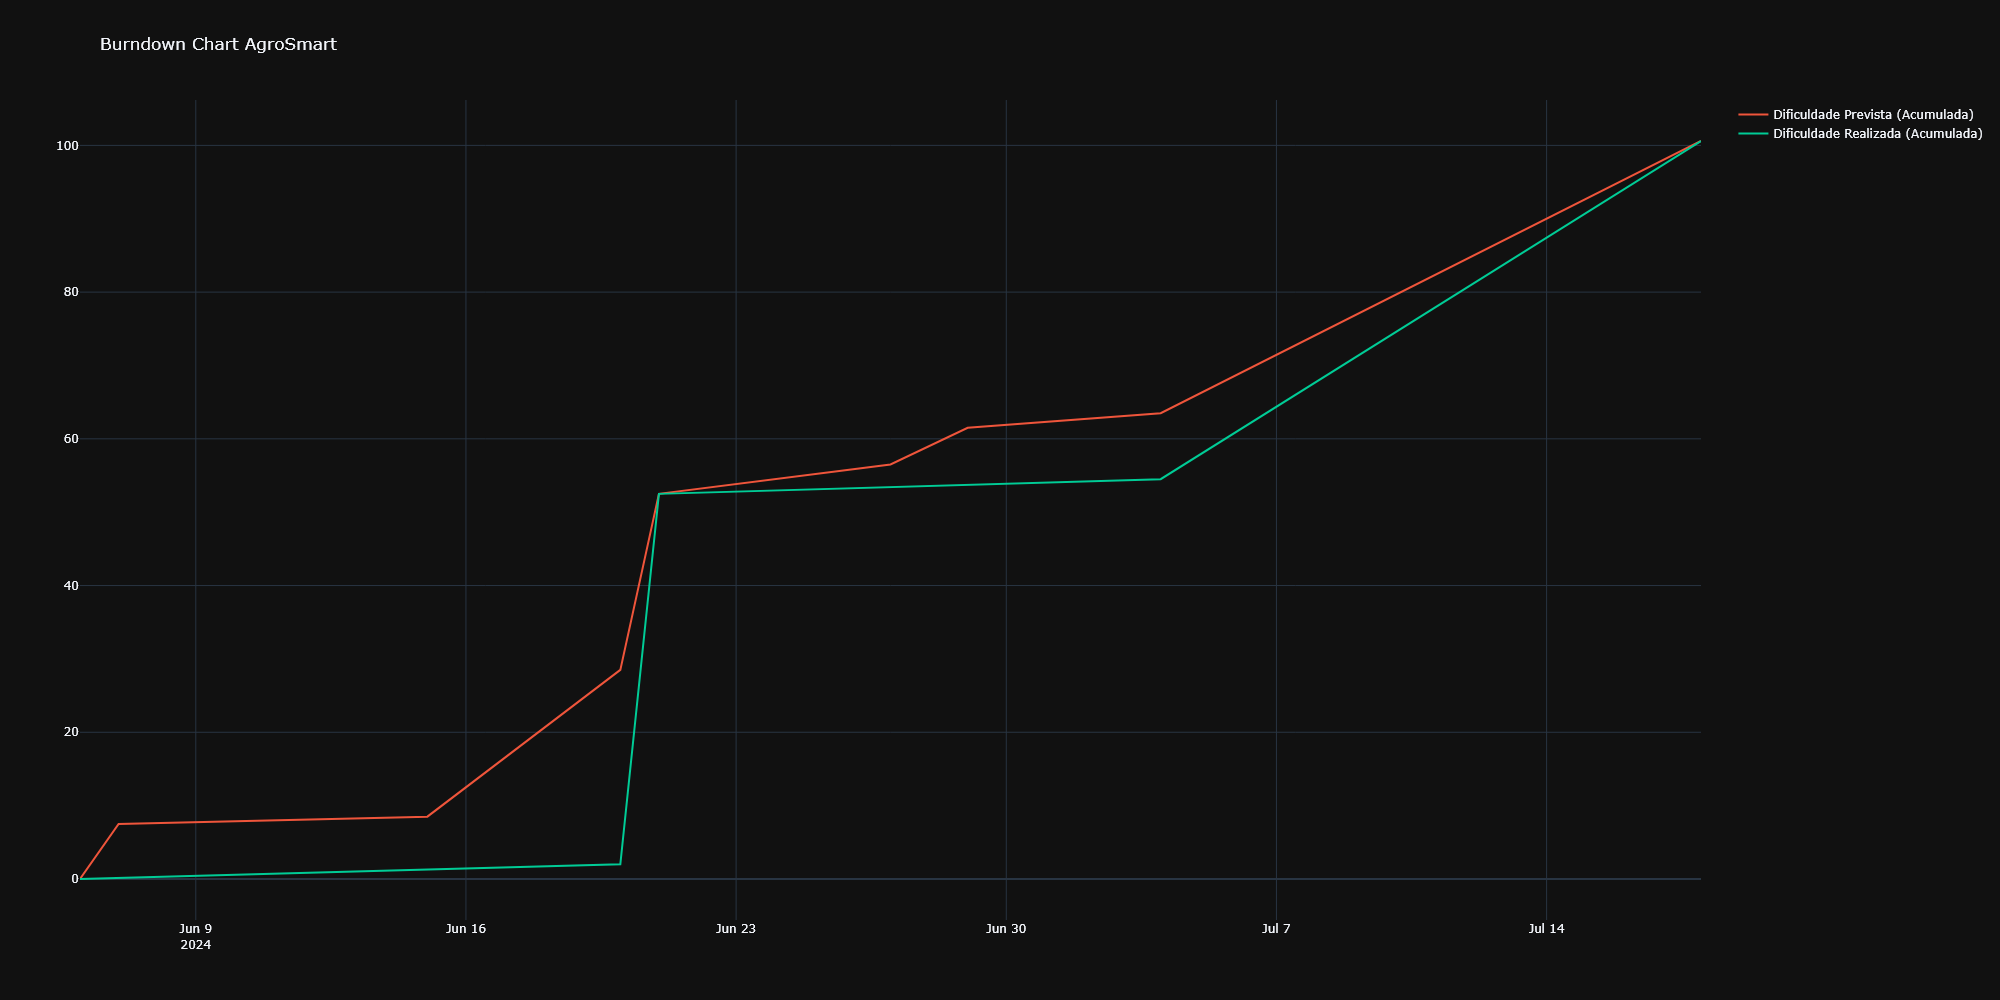
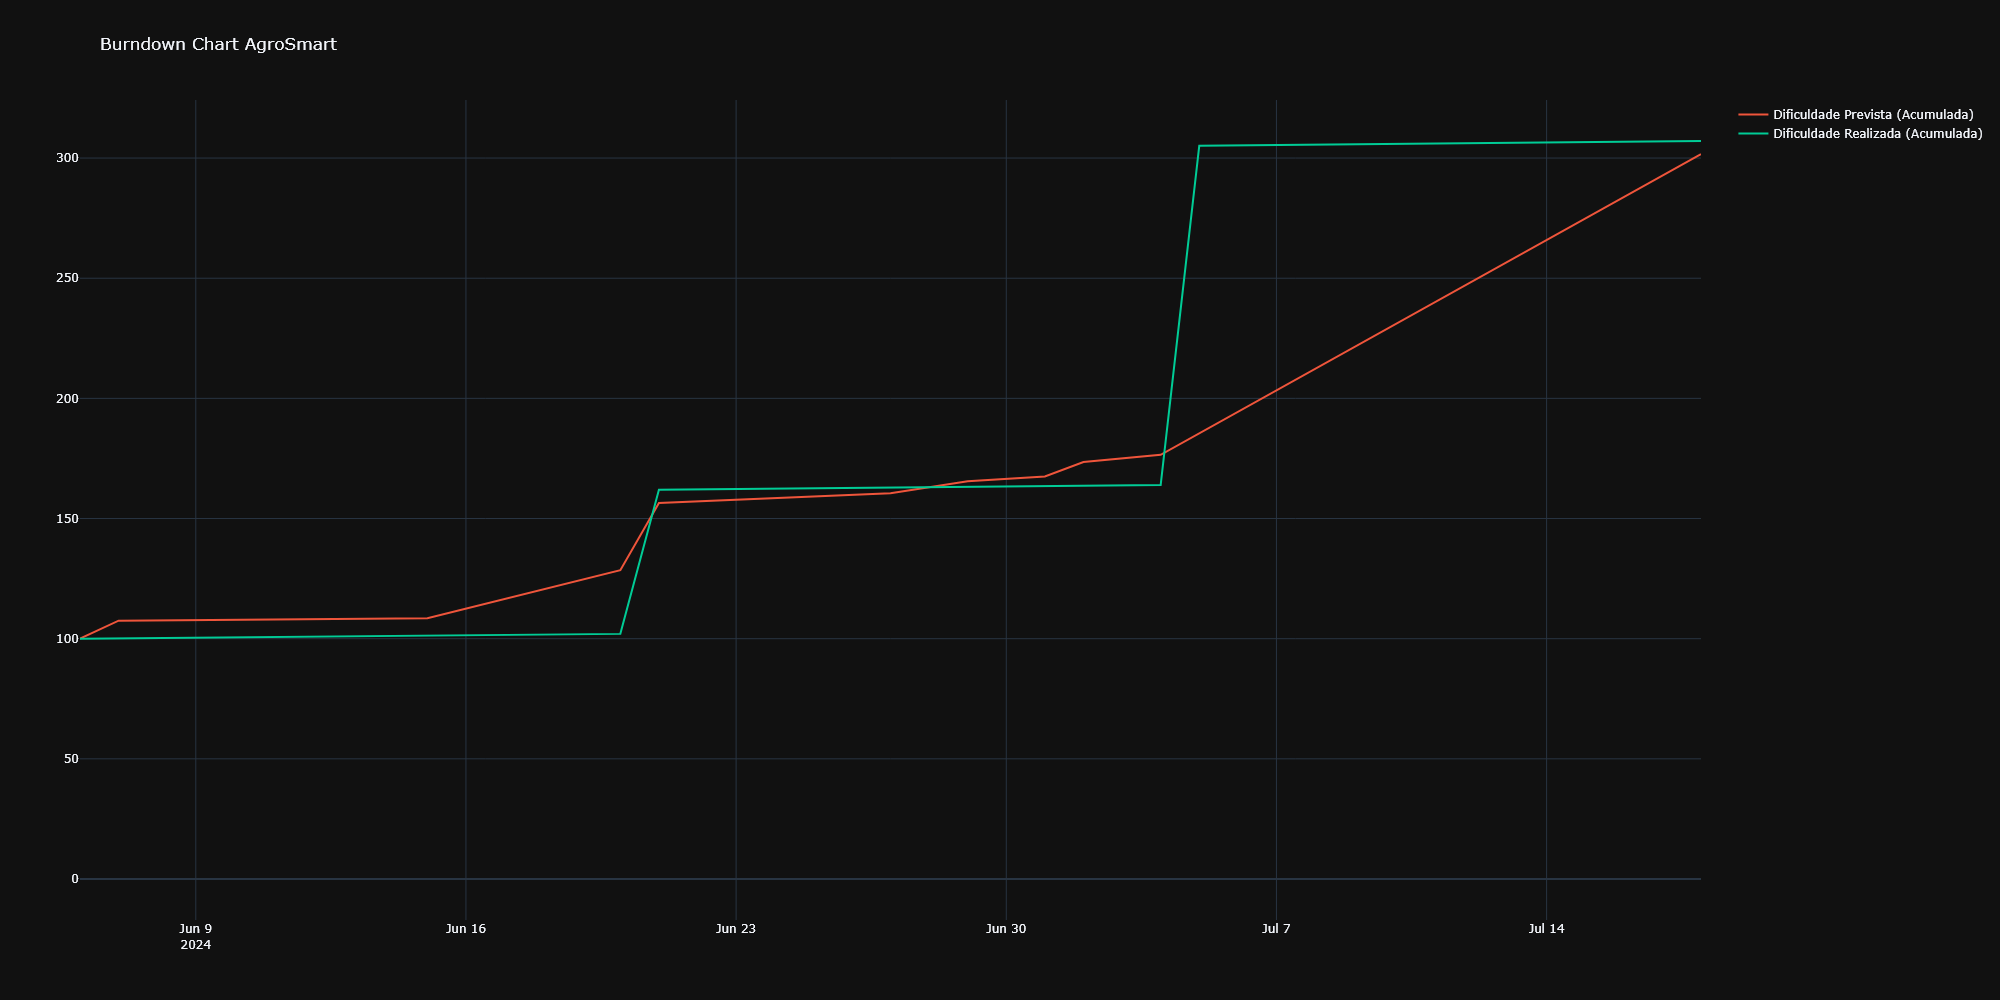
tirei o filtro de Done

diff --git a/main.py b/main.py
@@ -45,7 +45,7 @@ for item in itens:
     prazo = ""
     dificuldade = 0
     done_date = ""
-    if item["column_values"][1]["value"] != '' and not (item["column_values"][3]["text"] == '' or item["column_values"][3]["text"] == None or item["column_values"][3]["text"] == 'null' or item["column_values"][3]["text"] == '0') and item['column_values'][2]["text"] == "Feito":
+    if item["column_values"][1]["value"] != '' and not (item["column_values"][3]["text"] == '' or item["column_values"][3]["text"] == None or item["column_values"][3]["text"] == 'null' or item["column_values"][3]["text"] == '0'):
         prazo = item["column_values"][1]["text"]
         dificuldade = float(item["column_values"][3]["text"])
         if item["column_values"][5]["value"] is not None:
